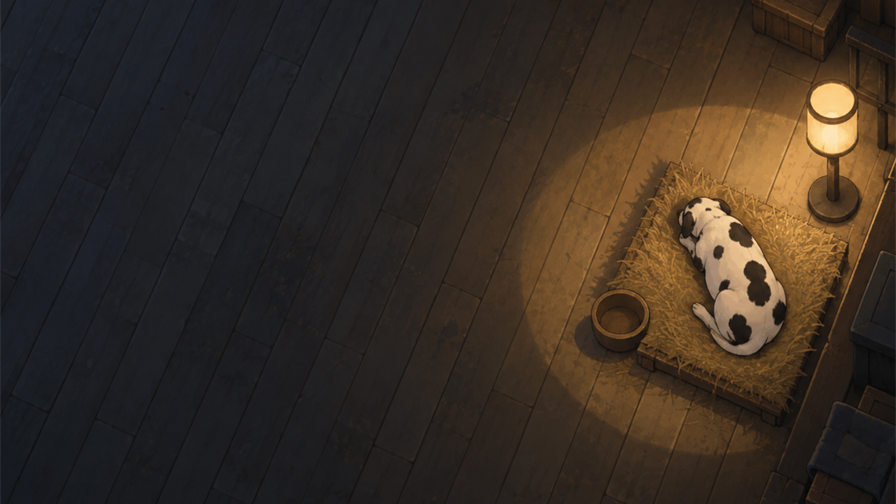
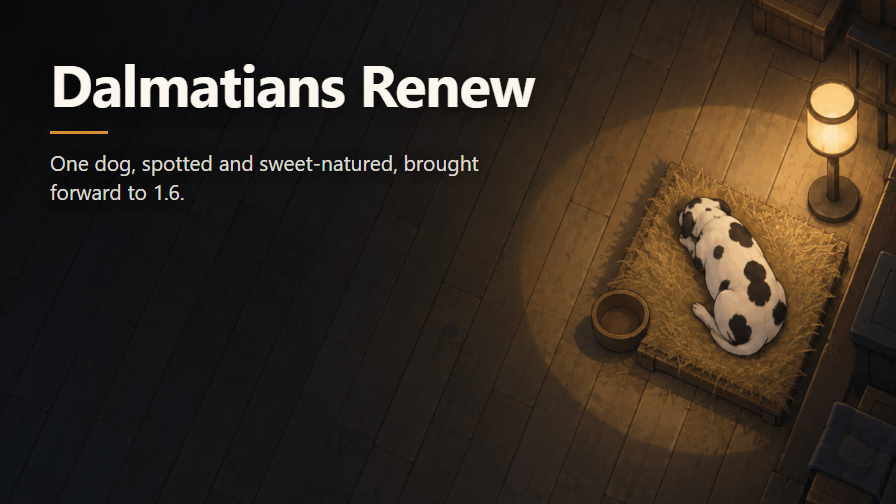
The showcase carries the mod name, engraved at the size it is drawn
The other showcases in this collection all carry their mod's name and a summary line burnt into
the image, and this one did not. It does now: the title over the calm dark left of the frame, an
amber rule taken from the lamp pool, and the line underneath.

Composed by Chrome headless straight at 896x504, from the full-resolution render under Art/ and
never from the reduced picture, so the glyphs are never resampled. The 16:9 crop happens in the
same pass, and is written out rather than left to `cover`: centring it vertically would cut the
bottom off the dog's bed. What the crop drops is the top of the render, where a settler walks
away; the dog, its bowl, its bed and the lamp all stay whole.

Two ways to invoke that renderer silently produce nothing usable, so the page says so next to the
command. A relative --screenshot path is refused outright. A bare Preview.html is read as a
hostname, and headless Chrome cheerfully screenshots its own DNS error page over the showcase and
reports success.

The summary line is for whoever opens the mod's page. At the 268 px the Workshop grid draws, it
falls to six pixels and cannot be read; the name still can. That is the collection's standing
choice, not an oversight here.

Changed region(s): [[0.0, 0.0, 0.5938, 0.4167]]

diff --git a/_tools/preview/Preview.html b/_tools/preview/Preview.html
@@ -1,0 +1,81 @@
+<!doctype html>
+<meta charset="utf-8">
+<title>Dalmatians Renew — showcase</title>
+<!--
+  Engraves the mod name and its summary line onto the showcase, to the repository
+  standard in STYLE_RIMWORLD.md: 896x504, title over the calm upper-left third,
+  58x3 amber rule, 21 px summary on 430 px.
+
+  Rendered by Chrome headless at the final size, so the glyphs are never
+  resampled. The background is Art/Preview-source.png, the full-resolution
+  render, never the reduced Preview.png.
+
+    chrome --headless --disable-gpu --hide-scrollbars \
+      --window-size=896,504 --force-device-scale-factor=1 \
+      "--screenshot=C:\...\DalmatiansRenew\Mod\About\Preview.png" \
+      "file:///C:/.../DalmatiansRenew/_tools/preview/Preview.html"
+
+  Both paths absolute, and the page as a file:// URL. A bare `Preview.html` is
+  read as a hostname and headless Chrome screenshots its own DNS error page
+  without failing; a relative --screenshot path is refused outright. Neither
+  says anything useful, and the first one silently overwrites the showcase.
+
+  The source is 1374x1145, which is not 16:9, so the crop happens here rather
+  than with `cover`: `cover` would centre the crop vertically and cut the bottom
+  of the dog's bed. Scale is 896/1374 = 0.65211, and the crop starts at y=300 in
+  the source, hence the -195.6 px offset. The top of the render, where a settler
+  walks away, is what is being dropped; the dog, its bowl, its bed and the lamp
+  all stay whole.
+
+  Geometry: rule at (50,133), cap-top of the title at y=64, summary from y=157
+  with a 29 px leading.
+-->
+<style>
+  html, body { margin: 0; padding: 0; }
+  body { width: 896px; height: 504px; position: relative; overflow: hidden; }
+
+  .scene {
+    position: absolute; inset: 0;
+    background-image: url('../../Art/Preview-source.png');
+    background-repeat: no-repeat;
+    background-size: 896px 746.7px;
+    background-position: 0 -195.6px;
+  }
+
+  /* Darkens the upper-left third so the text reads, and leaves the dog alone. */
+  .veil {
+    position: absolute; inset: 0;
+    background: radial-gradient(circle at top left,
+                rgba(6, 5, 4, .86) 0%, rgba(6, 5, 4, 0) 74%);
+  }
+
+  .plate {
+    position: absolute; left: 50px; top: 54px;
+    font-family: "Segoe UI", system-ui, -apple-system, sans-serif;
+  }
+
+  .name {
+    margin: 0; font-size: 58px; font-weight: 700; line-height: 1;
+    color: #FBF7EF; letter-spacing: -1.1px;
+    text-shadow: 0 2px 18px rgba(0, 0, 0, .55);
+  }
+
+  .rule {
+    width: 58px; height: 3px; margin: 19px 0 0; background: #D68F2C;
+  }
+
+  .line {
+    margin: 14px 0 0; width: 430px;
+    font-size: 21px; line-height: 29px; font-weight: 400;
+    color: rgba(251, 247, 239, .88);
+    text-shadow: 0 1px 12px rgba(0, 0, 0, .6);
+  }
+</style>
+
+<div class="scene"></div>
+<div class="veil"></div>
+<div class="plate">
+  <p class="name">Dalmatians Renew</p>
+  <div class="rule"></div>
+  <p class="line">One dog, spotted and sweet-natured, brought forward to 1.6.</p>
+</div>

diff --git a/CHANGELOG.md b/CHANGELOG.md
@@ -85,8 +85,10 @@ First release. Port of cucumpear's and lavie2k's **Dalmatians** to RimWorld 1.6.
   the two mods cannot load together.
 - `About/Preview.png` and `About/ModIcon.png`, made for this port on 2026-09-11 and replacing the
   showcase and the icon that came from the source mod. The showcase is a dalmatian asleep in a
-  lamp pool, drawn to the collection's own showcase rules; the icon is the collection's mascot
-  wearing the dog's markings. Full-resolution sources under `Art/`, which the mod does not ship.
+  lamp pool with the mod name and a summary line engraved over the calm left of the frame, drawn
+  to the collection's own showcase rules; the icon is the collection's mascot wearing the dog's
+  markings. Full-resolution sources under `Art/`, with the page that engraves the text under
+  `_tools/preview/`; the mod ships neither.
 
 ### Unchanged
 

diff --git a/README.md b/README.md
@@ -159,7 +159,7 @@ same reason: same defName, same collision.
 DalmatiansRenew/
   Mod/     <- what goes on the Workshop; the NTFS junction into RimWorld/Mods points here
   Art/     <- the full-resolution sources of the two pictures, never published
-  _tools/  <- the test suite, never published
+  _tools/  <- the test suite and the page that engraves the showcase, never published
 ```
 
 `Art/` holds the full-resolution sources of the two pictures, `Preview-source.png` and
